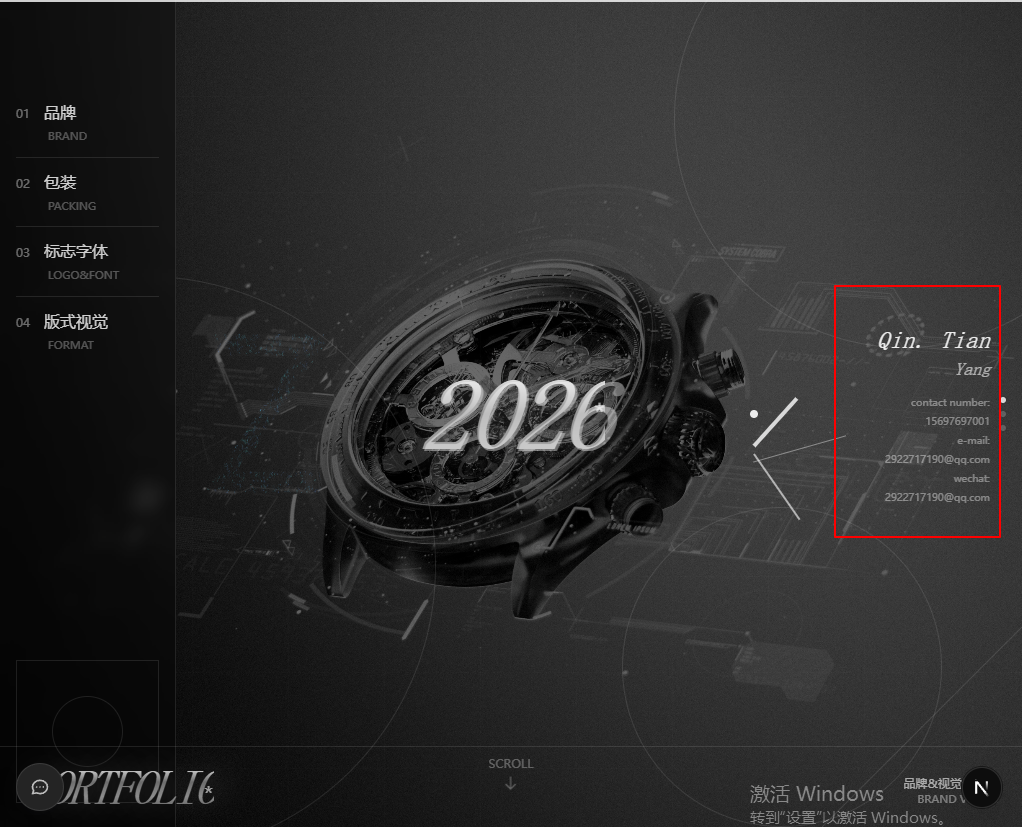
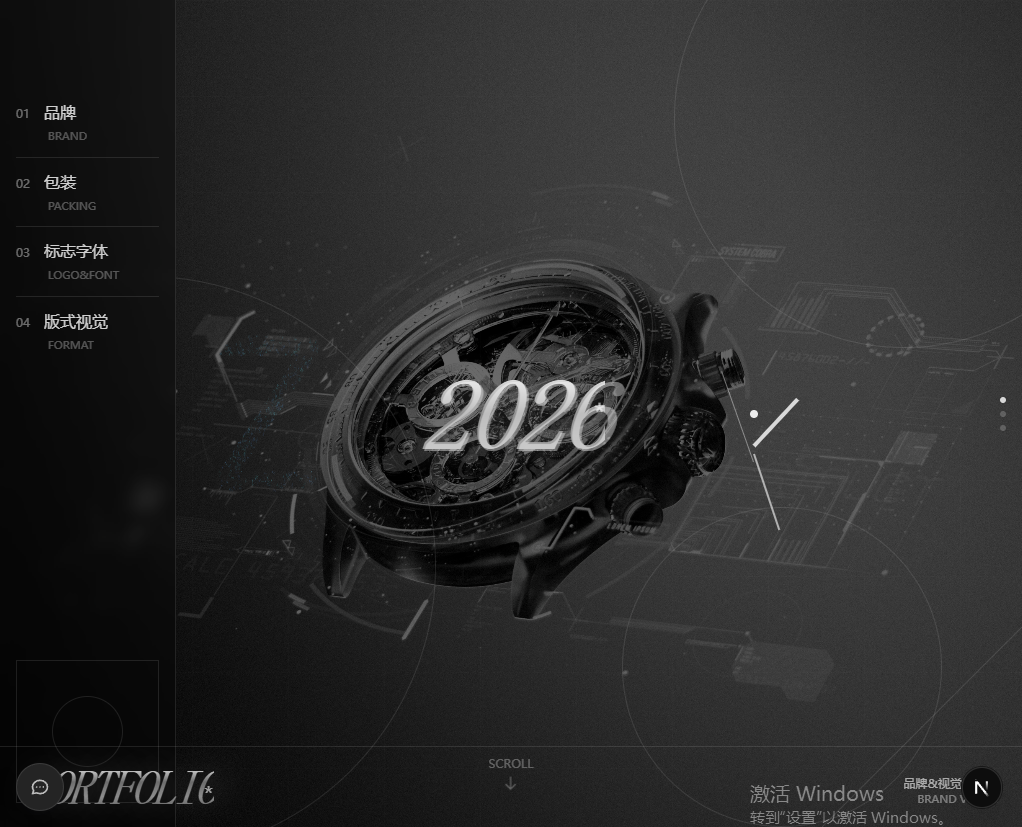
feat: 重构第一屏为对称等分布局

diff --git a/src/app/page.tsx b/src/app/page.tsx
@@ -234,51 +234,56 @@ export default function HomePage() {
           </svg>
         </div>
 
-        {/* 左侧菜单导航 */}
-        <nav className={cn("absolute left-0 top-0 h-full w-44 z-20 flex flex-col px-4 py-6 border-r border-white/10 bg-black/30 backdrop-blur-sm opacity-0 animate-fade-in-up", isLoaded && "opacity-100")}>
-          <div className="space-y-0 mt-16">
+        {/* 左侧菜单导航 - 占据左侧1/6 */}
+        <nav className={cn("absolute left-0 top-0 bottom-0 w-[16.666%] z-20 flex flex-col px-6 py-8 border-r border-white/10 bg-black/20 backdrop-blur-sm opacity-0 animate-fade-in-up", isLoaded && "opacity-100")}>
+          {/* 顶部标题 */}
+          <div className="mb-8">
+            <div className="h-[2px] w-8 bg-white/40 mb-3"></div>
+            <span className="text-xs tracking-[0.2em] text-white/30">MENU</span>
+          </div>
+
+          {/* 导航项 */}
+          <div className="flex-1">
             {[
               { id: '01', label: '品牌', sublabel: 'BRAND' },
               { id: '02', label: '包装', sublabel: 'PACKING' },
               { id: '03', label: '标志字体', sublabel: 'LOGO&FONT' },
               { id: '04', label: '版式视觉', sublabel: 'FORMAT' },
             ].map((item) => (
-              <button key={item.id} className="w-full text-left py-3 border-t border-white/10 first:border-t-0 hover:bg-white/5 transition-colors group">
-                <div className="flex items-center justify-between">
-                  <div>
-                    <span className="text-white/40 text-xs mr-3.5">{item.id}</span>
-                    <span className="text-base text-white/80">{item.label}</span>
-                  </div>
-                </div>
-                <p className="text-[11px] text-white/30 mt-1 ml-8">{item.sublabel}</p>
+              <button key={item.id} className="w-full text-left py-4 border-t border-white/10 first:border-t-0 hover:bg-white/5 transition-colors group">
+                <span className="text-white/40 text-xs mr-3">{item.id}</span>
+                <span className="text-base text-white/80">{item.label}</span>
+                <p className="text-[10px] text-white/30 mt-1 ml-8">{item.sublabel}</p>
               </button>
             ))}
           </div>
-          <div className="mt-auto">
-            <div className="border border-white/10 w-full aspect-square flex items-center justify-center">
-              <div className="w-1/2 h-1/2 border border-white/10 rounded-full"></div>
+
+          {/* 底部装饰 */}
+          <div className="mt-auto pt-4">
+            <div className="border border-white/10 rounded-full aspect-square flex items-center justify-center">
+              <span className="text-white/30 text-xs">N</span>
             </div>
           </div>
         </nav>
 
-        {/* 主内容区域 */}
-        <div className="relative z-10 h-full">
-          {/* 电子流 Z 字母 */}
-          <div className="absolute left-44 lg:left-56 top-1/2 -translate-y-1/2">
-            <div className="w-[18vw] lg:w-[14vw] aspect-[1/1.5]">
+        {/* 中央主体区域 - 等分对称布局 */}
+        <div className="absolute inset-0 z-10 flex items-center justify-center">
+          {/* 左侧 - 电子流Z字母 */}
+          <div className="w-1/3 flex items-center justify-end pr-8">
+            <div className="w-[12vw] aspect-[1/1.5]">
               <ZLetterCanvas />
             </div>
           </div>
 
-          {/* 中间年份大标题 */}
-          <div className="absolute left-1/2 top-1/2 -translate-x-1/2 -translate-y-1/2 z-10">
+          {/* 中间 - 年份标题 */}
+          <div className="flex flex-col items-center justify-center relative">
             <h1
-              className={cn("text-[80px] sm:text-[100px] lg:text-[140px] font-bold tracking-tighter leading-none opacity-0 animate-fade-in-up delay-200", isLoaded && "opacity-100")}
+              className={cn("text-[100px] sm:text-[140px] lg:text-[180px] font-bold tracking-tighter leading-none opacity-0 animate-fade-in-up delay-200", isLoaded && "opacity-100")}
               style={{
                 fontFamily: 'serif',
                 fontStyle: 'italic',
-                textShadow: '0 0 30px rgba(255,255,255,0.25), 2px 2px 0 rgba(255,255,255,0.4)',
-                background: 'linear-gradient(180deg, #ffffff 0%, #888888 50%, #aaaaaa 100%)',
+                textShadow: '0 0 40px rgba(255,255,255,0.3), 3px 3px 0 rgba(255,255,255,0.5)',
+                background: 'linear-gradient(180deg, #ffffff 0%, #999999 50%, #ffffff 100%)',
                 WebkitBackgroundClip: 'text',
                 WebkitTextFillColor: 'transparent',
                 letterSpacing: '-0.05em'
@@ -286,21 +291,24 @@ export default function HomePage() {
             >
               2026
             </h1>
-            <span className="absolute top-8 right-0 text-white/60 text-2xl">*</span>
+            <span className="absolute right-0 top-8 text-white/60 text-2xl">*</span>
           </div>
 
-          {/* 手表指针 */}
-          <div className="absolute right-[20%] lg:right-[25%] top-1/2 -translate-y-1/2 w-32 lg:w-48 z-10">
-            <WatchHands />
+          {/* 右侧 - 手表指针 */}
+          <div className="w-1/3 flex items-center justify-start pl-8">
+            <div className="w-32 lg:w-48 aspect-square">
+              <WatchHands />
+            </div>
           </div>
         </div>
 
-        {/* 底部 PORTFOLIO */}
-        <div className={cn("absolute bottom-0 left-0 right-0 z-20 border-t border-white/10 px-6 lg:px-8 py-4 opacity-0 animate-fade-in-up delay-500", isLoaded && "opacity-100")}>
-          <div className="flex items-end justify-between">
+        {/* 底部区域 - 居中对齐 */}
+        <div className="absolute bottom-0 left-0 right-0 z-20 border-t border-white/10 py-6">
+          {/* 底部PORTFOLIO - 居中 */}
+          <div className="flex items-center justify-center">
             <div className="relative">
               <h2
-                className="text-[36px] sm:text-[48px] lg:text-[64px] font-bold leading-none tracking-tighter"
+                className="text-[48px] sm:text-[64px] lg:text-[80px] font-bold leading-none tracking-tighter"
                 style={{
                   fontFamily: 'serif',
                   fontStyle: 'italic',
@@ -313,11 +321,7 @@ export default function HomePage() {
               >
                 PORTFOLIO
               </h2>
-              <span className="absolute top-4 left-[140px] sm:left-[180px] lg:left-[240px] text-white/60 text-xl">*</span>
-            </div>
-            <div className="text-right mb-1">
-              <p className="text-xs lg:text-sm text-white/60">品牌&视觉设计师</p>
-              <p className="text-[11px] text-white/40">BRAND VISION</p>
+              <span className="absolute top-4 left-[160px] sm:left-[220px] lg:left-[280px] text-white/60 text-xl">*</span>
             </div>
           </div>
         </div>
